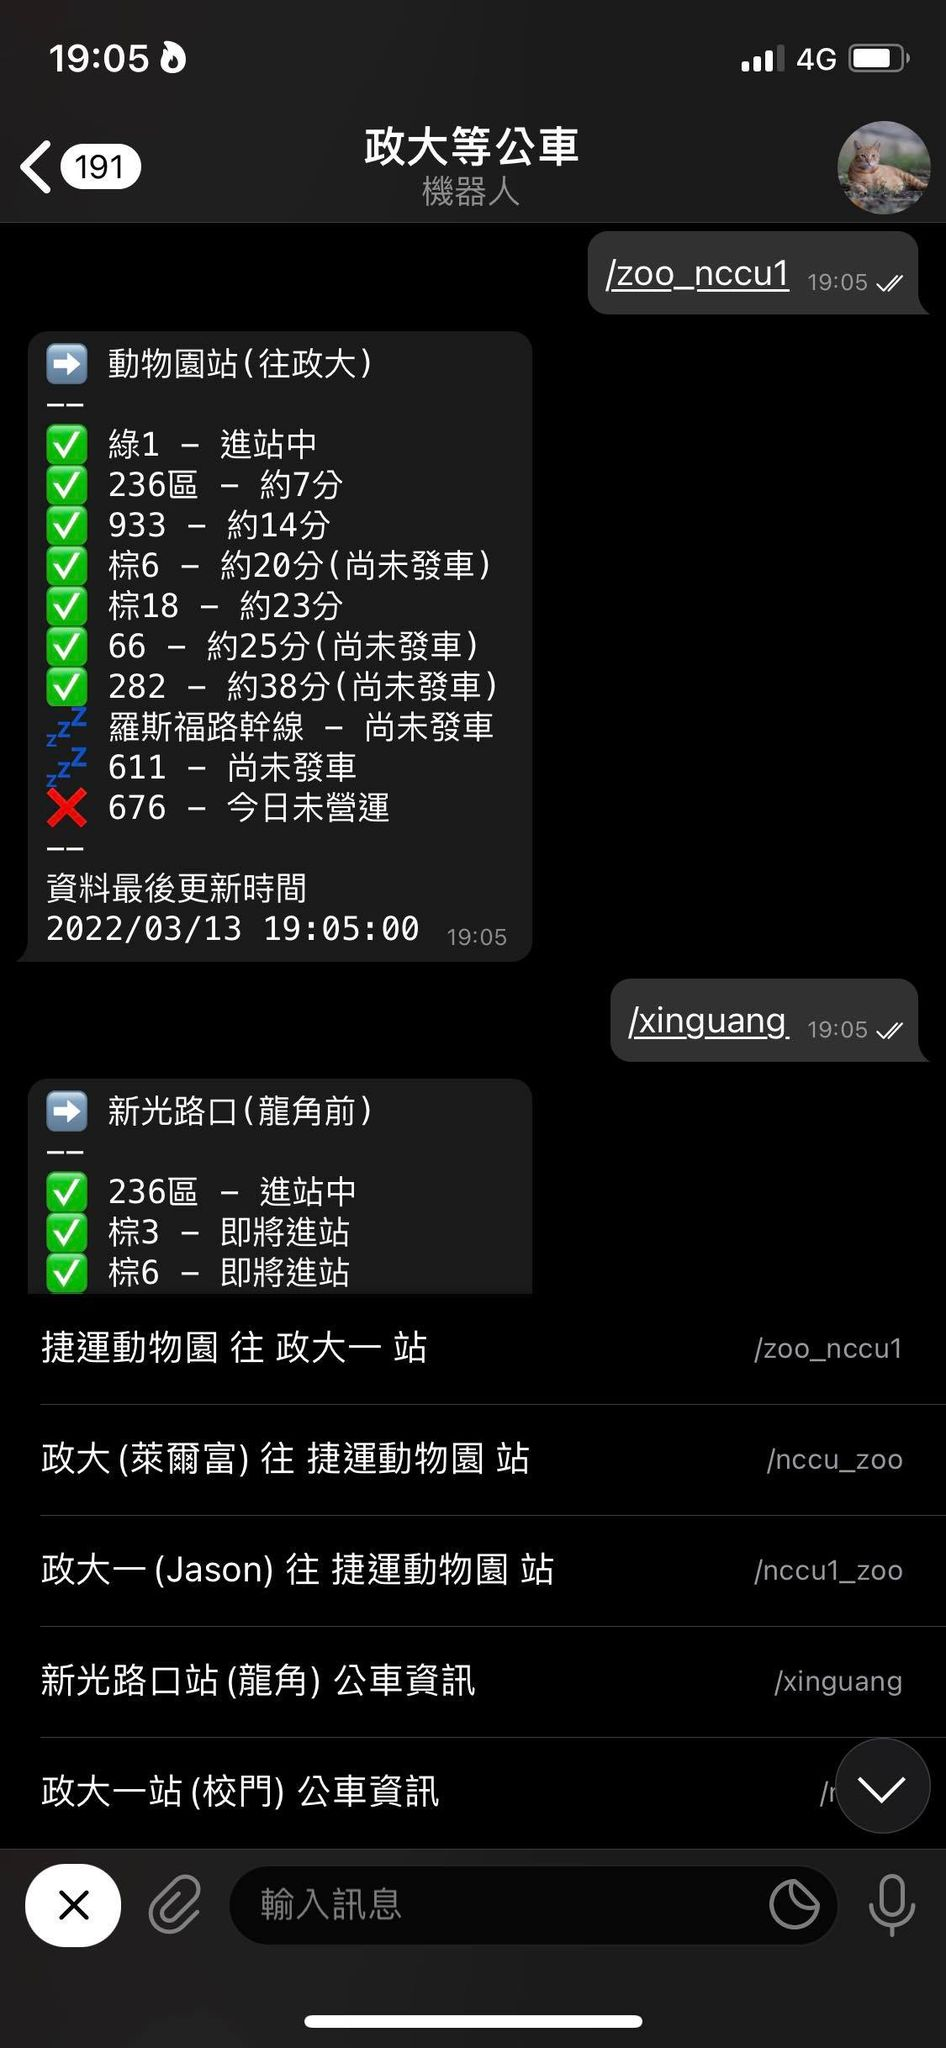
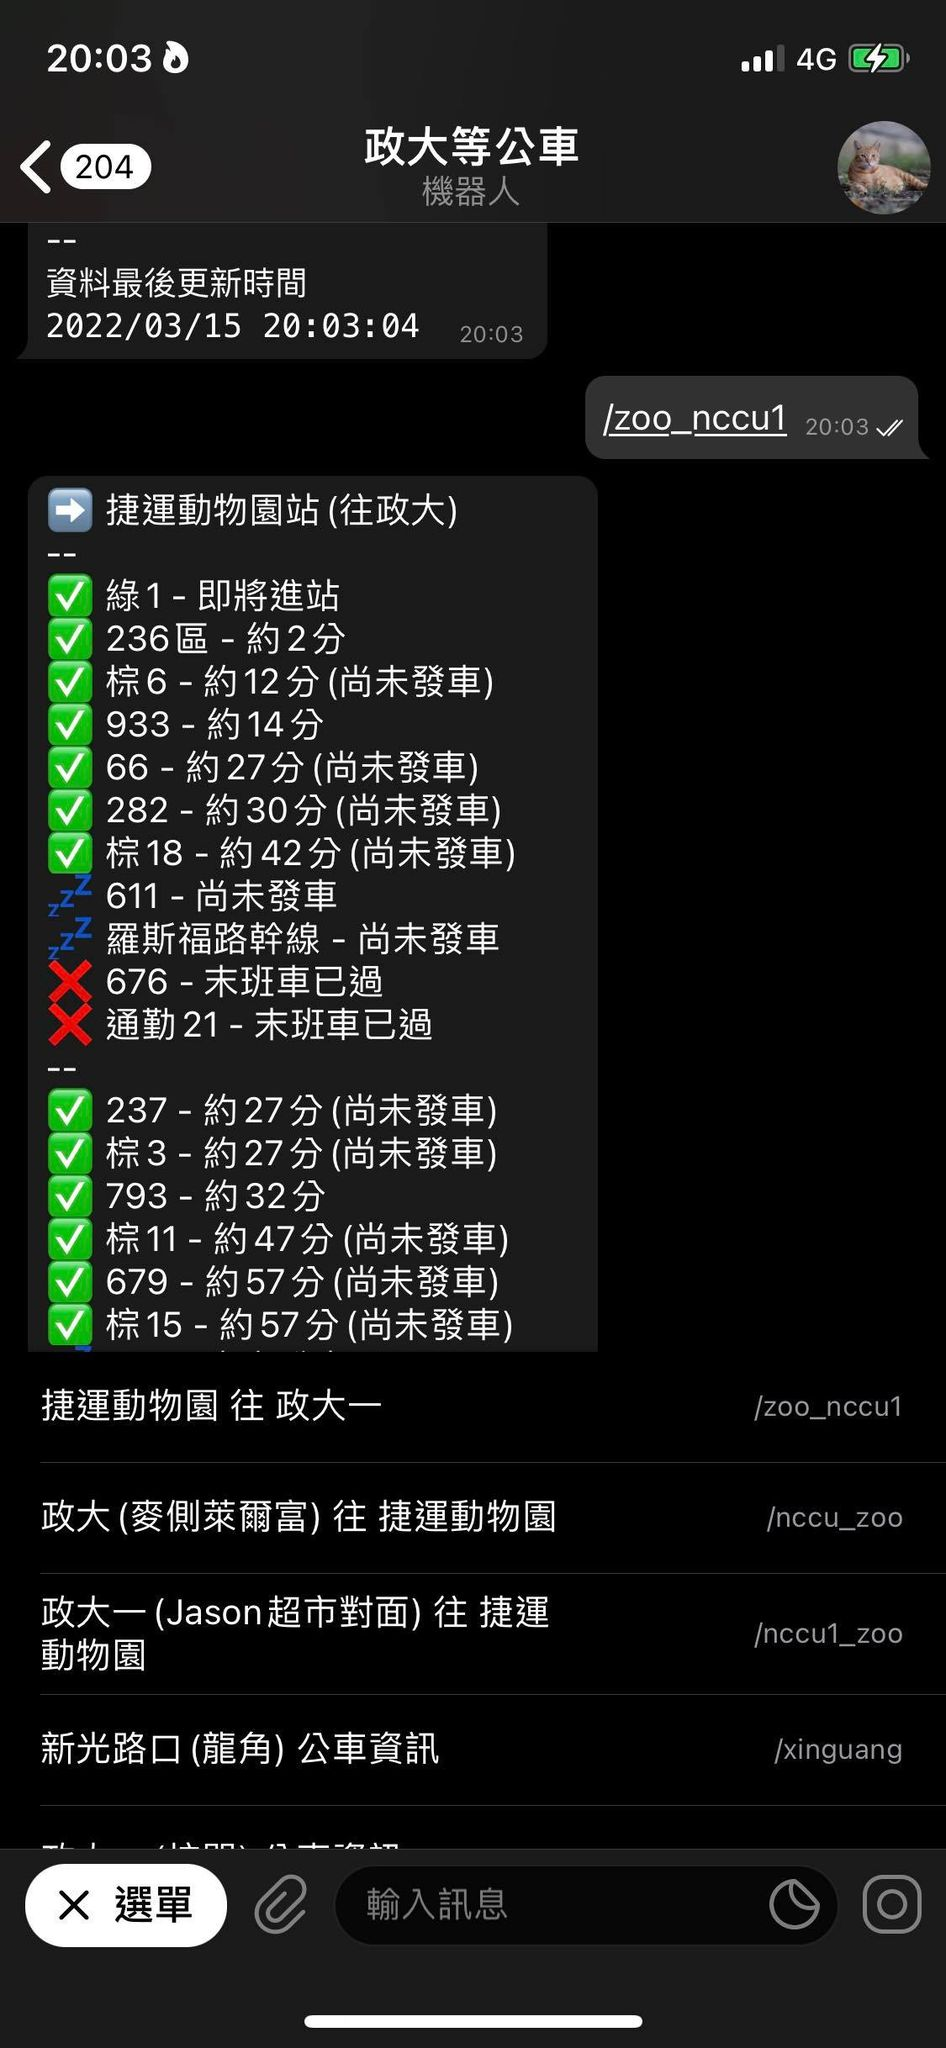
bus data sort&display

diff --git a/bus.js b/bus.js
@@ -1,4 +1,4 @@
-// Telegram bot screenshot -> https://i.imgur.com/ako16i7.jpg
+// Telegram bot screenshot -> https://raw.githubusercontent.com/s1031432/nccubus/master/screenshot.jpg
 // Add me on Telegram      -> https://t.me/NCCU_bot
 
 const jsSHA = require('jssha');
@@ -28,18 +28,17 @@ function GetAuthorizationHeader() {
 }
 
 function getNewTaipeiData(mode, body){
-    console.log(`getNewTaipeiData(${mode})`);
     return new Promise( resolve => { 
         request(`https://ptx.transportdata.tw/MOTC/v2/Bus/EstimatedTimeOfArrival/City/NewTaipei/PassThrough/Station/${data[mode].stationID}?%24top=30&%24format=JSON`,{
             headers: GetAuthorizationHeader(),
             gzip: true,
             json: true,
-            timeout: 1000,
-        }, function(error, response, ntbody){
+            timeout: 555,
+        }, async function(error, response, ntbody){
             try{
                 if(error){
-                    console.log("-- ERROR: ", mode);
-                    getNewTaipeiData(mode);
+                    console.log("-- ERROR: ", mode, error);
+                    await getNewTaipeiData(mode);
                 }
                 else{
                     for(let i=0;i<ntbody.length;i++){
@@ -55,7 +54,6 @@ function getNewTaipeiData(mode, body){
     });
 }
 function getData(mode){
-    console.log(`getData(${mode})`);
     // Call ptx API to get bus data(json)
     // More infomation: https://ptx.transportdata.tw/MOTC/?urls.primaryName=%E5%85%AC%E8%BB%8AV2#/Bus%20Advanced(By%20Station)/CityBusApi_EstimatedTimeOfArrival_ByStation_2880
     return new Promise( resolve => { 
@@ -63,12 +61,12 @@ function getData(mode){
             headers: GetAuthorizationHeader(),
             gzip: true,
             json: true,
-            timeout: 1000,
+            timeout: 555,
         }, async function(error, response, body){
             try{
                 if(error){
-                    console.log("-- ERROR: ", mode);
-                    getData(mode);
+                    console.log("-- ERROR: ", mode, error);
+                    await getData(mode);
                 }
                 else{
                     // for 933
@@ -76,48 +74,25 @@ function getData(mode){
                     body = sortBusData(body);
                     // console.log(body);
                     let result = [data[mode].title,"--"];
-                    for(var i=0;i<body.length;i++){
-                        if( (data[mode].whiteList[0].indexOf(body[i].RouteName.En)>-1 && body[i].Direction==0)  || (data[mode].whiteList[1].indexOf(body[i].RouteName.En)>-1 && body[i].Direction==1)){
-                            str = `${body[i].RouteName.Zh_tw}`;
-                            if(body[i].StopStatus == 0){
-                                if(body[i].EstimateTime >= 30){
-                                    str = body[i].EstimateTime < 120 ? `✅ ${str} - 即將進站` : `✅ ${str} - 約${parseInt(body[i].EstimateTime/60)}分`;
-                                }
-                                else if(body[i].EstimateTime < 30){
-                                    str = `✅ ${str} - 進站中`;
-                                }
-                            }
-                            else if(body[i].StopStatus == 1){
-                                if(body[i].EstimateTime >= 30){
-                                    str = body[i].EstimateTime < 120 ? `✅ ${str} - 即將進站` : `✅ ${str} - 約${parseInt(body[i].EstimateTime/60)}分(尚未發車)`;
-                                }
-                                else if(body[i].EstimateTime < 30){
-                                    str = `✅ ${str} - 進站中`
-                                }
-                                else if(body[i].EstimateTime == undefined){
-                                    str = `💤 ${str} - 尚未發車`;
-                                }
-                            }
-                            else if(body[i].StopStatus == 2){
-                                str = `⚠ ${str} - 交管不停靠`;
-                            }
-                            else if(body[i].StopStatus == 3){
-                                str = `❌ ${str} - 末班車已過`;
-                            }
-                            else if(body[i].StopStatus == 4){
-                                str = `❌ ${str} - 今日未營運`;
-                            }
-                            if(body[i].IsLastBus){
-                                str += ` 🔴末班車！`;
-                            }
-                            result.push(str);
-                        }
+                    if(mode == "xinguang" || mode == "nccu1"){
+                        for(var i=0;i<body.length;i++)
+                            result.push( getEachBusContent(body[i]) );
+                    }
+                    else{
+                        for(var i=0;i<body.length;i++)
+                            if( (data[mode].whiteList[0].indexOf(body[i].RouteName.En)>-1 && body[i].Direction==0)  || (data[mode].whiteList[1].indexOf(body[i].RouteName.En)>-1 && body[i].Direction==1))
+                                result.push( getEachBusContent(body[i]) );
+                        result.push(`--`)
+                        for(var i=0;i<body.length;i++)
+                            if( ! ((data[mode].whiteList[0].indexOf(body[i].RouteName.En)>-1 && body[i].Direction==0)  || (data[mode].whiteList[1].indexOf(body[i].RouteName.En)>-1 && body[i].Direction==1)) )
+                                result.push( getEachBusContent(body[i]) );
                     }
                     let nowMs = (+new Date())+8*60*60*1000;
                     // update each bus data lastUpdateTime
                     data[mode].lastUpdateTimeMs = nowMs;
-                    result.push(`--`);
-                    result.push(`資料最後更新時間\n${getDateTime.getDateTime(new Date(data[mode].lastUpdateTimeMs))}</pre>`);
+                    if( result[result.length-1] != `--`)
+                        result.push(`--`)
+                    result.push(`<code>資料最後更新時間\n${getDateTime.getDateTime(new Date(data[mode].lastUpdateTimeMs))}</code>`);
                     console.log(`-- ${getDateTime.getDateTime(new Date(data[mode].lastUpdateTimeMs))} ${mode} data update`);
                     // update each bus data content
                     data[mode].str = result.join("\n");
@@ -130,13 +105,40 @@ function getData(mode){
         });
     });
 }
+function getEachBusContent(body){
+    let str = `${body.RouteName.Zh_tw}`;
+    if(body.StopStatus == 0){
+        if(body.EstimateTime >= 30)
+            str = body.EstimateTime < 120 ? `✅ ${str} - 即將進站` : `✅ ${str} - 約${parseInt(body.EstimateTime/60)}分`;
+        else if(body.EstimateTime < 30)
+            str = `✅ ${str} - 進站中`;
+    }
+    else if(body.StopStatus == 1){
+        if(body.EstimateTime >= 30)
+            str = body.EstimateTime < 120 ? `✅ ${str} - 即將進站` : `✅ ${str} - 約${parseInt(body.EstimateTime/60)}分(尚未發車)`;
+        else if(body.EstimateTime < 30)
+            str = `✅ ${str} - 進站中`
+        else if(body.EstimateTime == undefined)
+            str = `💤 ${str} - 尚未發車`;
+    }
+    else if(body.StopStatus == 2)
+        str = `⚠ ${str} - 交管不停靠`;
+    else if(body.StopStatus == 3)
+        str = `❌ ${str} - 末班車已過`;
+    else if(body.StopStatus == 4)
+        str = `❌ ${str} - 今日未營運`;
+    if(body.IsLastBus)
+        str += ` 🔴末班車！`;
+    return str;
+}
 function sortBusData(body){
     // sort data by StopStatus & EstimateTime
     // --sort by StopStatus
+    var temp = "for swap"
     for(var i=0;i<body.length-1;i++){
         for(var j=i+1;j<body.length;j++){
             if( body[i].StopStatus > body[j].StopStatus){
-                var temp = body[i];
+                temp = body[i];
                 body[i] = body[j];
                 body[j] = temp;
             }
@@ -146,7 +148,7 @@ function sortBusData(body){
     for(var i=0;i<body.length-1;i++){
         for(var j=i+1;j<body.length;j++){
             if( (body[i].EstimateTime == undefined && body[j].EstimateTime != undefined) ){
-                var temp = body[i];
+                temp = body[i];
                 body[i] = body[j];
                 body[j] = temp;
             }
@@ -156,18 +158,48 @@ function sortBusData(body){
     for(var i=0;i<body.length-1;i++){
         for(var j=i+1;j<body.length;j++){
             if(body[j].EstimateTime < body[i].EstimateTime){
-                var temp = body[i];
+                temp = body[i];
                 body[i] = body[j];
                 body[j] = temp;
             }
         }
     }
+    for(var i=0;i<body.length-1;i++){
+        for(var j=i+1;j<body.length;j++){
+            if( (body[i].EstimateTime == undefined && body[j].EstimateTime == undefined || parseInt(body[i].EstimateTime/60) == parseInt(body[j].EstimateTime/60)) && ( body[i].StopStatus == body[j].StopStatus ) ){
+            // if( ( body[i].StopStatus > 0 && body[j].StopStatus > 0 && body[i].StopStatus == body[j].StopStatus && body[i].EstimateTime == undefined && body[j].EstimateTime == undefined ) || ( body[i].StopStatus == 0 && body[j].StopStatus == 0 && parseInt(body[i].EstimateTime/60) == parseInt(body[j].EstimateTime/60) ) ){
+                if( isStr1BiggerThanStr2(body[i].RouteName.Zh_tw, body[j].RouteName.Zh_tw) ){
+                    temp = body[i];
+                    body[i] = body[j];
+                    body[j] = temp;
+                }
+            }
+        }
+    }
     return body;
+}
+function isStr1BiggerThanStr2(str1, str2){
+    // "66", "676"
+    if( !( isNaN( parseInt(str1) ) || isNaN( parseInt(str2) ) ) ){
+        if( !isNaN(str1) && !isNaN(str2) )
+            return parseInt(str1) > parseInt(str2);
+        if(parseInt(str1) == parseInt(str2))
+            return str1.length > str2.length
+        return parseInt(str1) > parseInt(str2)
+    }
+    // "綠1", "66"
+    if( (isNaN(str1) && !isNaN(str2)) || (!isNaN(str1) && isNaN(str2)) )
+        return isNaN(str1);
+    // "棕6", "棕8", "通勤21", "通勤22"
+    if( str1[0] == str2[0] )
+        return isStr1BiggerThanStr2(str1.substring(1), str2.substring(1));
+    // "綠1", "棕9"
+    return str1 > str2;    
 }
 function isDataUpdated(mode){
     // check data is fresh
     let nowMs = (+new Date())+8*60*60*1000;
-    if( nowMs - data[mode].lastUpdateTimeMs >= 30*1000 || data[mode].str.length < 1)
+    if( nowMs - data[mode].lastUpdateTimeMs >= 5*1000 || data[mode].str.length < 1)
         return false;
     return true;
 }
@@ -175,20 +207,19 @@ function isStopUpdateAtNight(){
     // 02:00 ~ 05:00 don't call api
     let now = getDateTime.getDateTime(new Date((+new Date())+8*60*60*1000));
     let hours = now[11]+now[12];
-    if((Number(hours) < 5 && Number(hours) > 1) ){
+    if((Number(hours) < 5 && Number(hours) > 1) )
         return true;
-    }
     return false;
 }
 bot.onText(/\/start$/, (msg) => {
     let replyMsg = [];
     replyMsg.push("<code><b><u>/start</u></b></code>\n介紹及指令說明。\n");
     replyMsg.push("<code><b><u>/server</u></b></code>\n查看伺服器狀況。\n");
-    replyMsg.push("<code><b><u>/zoo_nccu1</u></b></code>\n查看捷運動物園站到政大一站(校門口)公車到站時間。只會顯示有停靠政大一站的公車，有些公車(如295, 679)雖不停靠政大一站(校門口)，但會停靠新光路口，就不會被列出。\n");
-    replyMsg.push("<code><b><u>/nccu_zoo</u></b></code>\n查看政大站(麥側萊爾富)到捷運動物園站的公車到站時間。有些公車(如530)雖有停靠政大站(麥側萊爾富)，但不會停靠捷運動物園站，或是極度繞路(如棕11)，就不會被列出。\n");
-    replyMsg.push("<code><b><u>/nccu1_zoo</u></b></code>\n查看政大一站(Jason超市對面)到捷運動物園站的公車到站時間。只會顯示會停靠捷運動物園站的公車，有些公車(如530)雖有停靠政大一站(Jason超市對面)，但不會停靠捷運動物園站，就不會被列出。\n");
-    replyMsg.push("<code><b><u>/xinguang</u></b></code>\n查看停靠新光路口站的<b>所有公車</b>到站時間。\n");
-    replyMsg.push("<code><b><u>/nccu1</u></b></code>\n查看政大一站(校門口)的<b>所有公車</b>到站時間。\n");
+    replyMsg.push("<code><b><u>/zoo_nccu1</u></b></code>\n查看捷運動物園站（往政大方向）的公車到站時間。上半部為<b>有停靠政大一站</b>的公車。\n");
+    replyMsg.push("<code><b><u>/nccu_zoo</u></b></code>\n查看政大站（麥側萊爾富）的公車到站時間。上半部為<b>有停靠捷運動物園站</b>的公車。\n");
+    replyMsg.push("<code><b><u>/nccu1_zoo</u></b></code>\n查看政大一站（Jason超市）的公車到站時間。上半部為<b>有停靠捷運動物園站</b>的公車。\n");
+    replyMsg.push("<code><b><u>/xinguang</u></b></code>\n查看停靠新光路口站的公車到站時間。\n");
+    replyMsg.push("<code><b><u>/nccu1</u></b></code>\n查看政大一站(校門口)的公車到站時間。\n");
     replyMsg.push("<b>⚠ 注意</b>");
     replyMsg.push("本服務佈署於Heroku雲端伺服器，串接PTX API取得資料後，透過Telegram Bot呈現到站資訊，資料準確性及服務穩定性可能會因為PTX API及相關雲端服務的狀況而受到影響。\n");
     replyMsg.push("📎 專案Github");
@@ -220,7 +251,7 @@ bot.on('message', async (msg) => {
             return;
         }
         try{
-            bot.sendMessage(msg.chat.id, "資料更新中⋯", {parse_mode: 'HTML'});
+            // bot.sendMessage(msg.chat.id, "資料更新中⋯", {parse_mode: 'HTML'});
             let replyMsg = await getData(mode);
             bot.sendMessage(msg.chat.id, replyMsg, {parse_mode: 'HTML'});
         }
@@ -234,7 +265,7 @@ bot.on('message', async (msg) => {
     }
 });
 const app = express();
-app.get('/', function (req, res) {
+app.get('/', async function (req, res) {
     res.redirect("https://t.me/NCCU_bot");
 });
 app.listen(process.env.PORT || 5000, async function () {

diff --git a/README.MD b/README.MD
@@ -76,8 +76,8 @@
     npm start
 ```
 ### Demo on Telegram screenshot
-<img src="https://i.imgur.com/ako16i7.jpg" alt="screenshot" style="width:360px;"/>
-<img src="https://i.imgur.com/vEQqufy.jpg" alt="qrcode" style="width:360px;"/>
+<img src="https://raw.githubusercontent.com/s1031432/nccubus/master/screenshot.jpg" alt="screenshot" style="width:360px;"/>
+<img src="https://raw.githubusercontent.com/s1031432/nccubus/master/qrcode.jpg" alt="qrcode" style="width:360px;"/>
 
 <!-- CONTACT -->
 ## Contact
